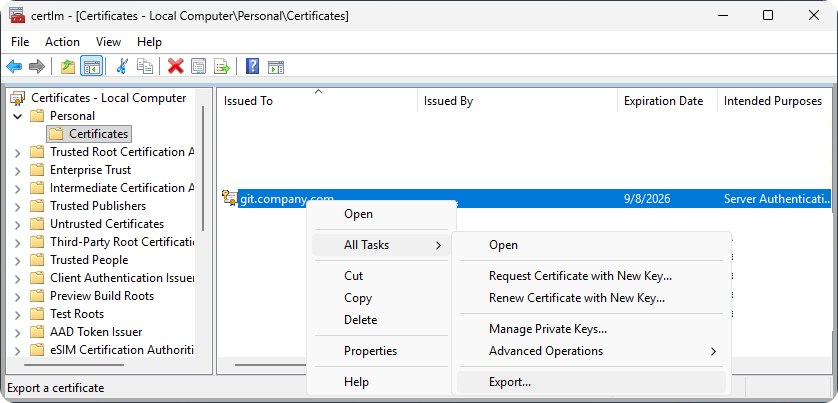
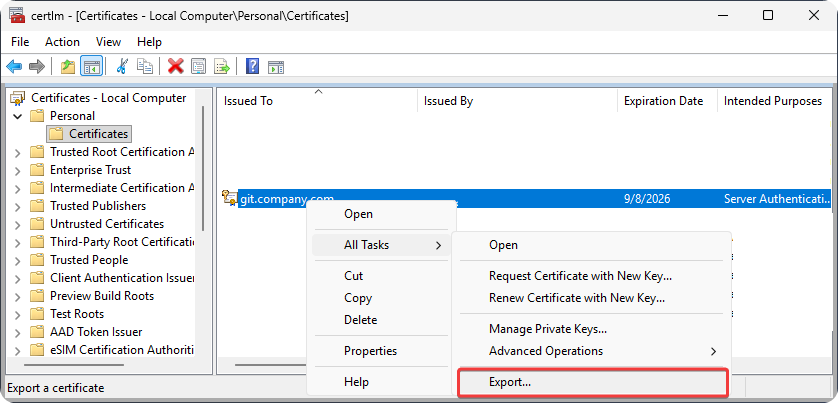
Quartz sync: Apr 20, 2026, 9:52 AM

Changed region(s): [[0.5274, 0.8933, 0.8687, 1.0]]

diff --git a/content/Blog/0041 Issuing Internal SSL Certificates from AD CS.md b/content/Blog/0041 Issuing Internal SSL Certificates from AD CS.md
@@ -1,14 +1,20 @@
 ---
 title: "Issuing Internal SSL Certificates from AD CS"
-created: 2026-03-29
-modified: 2026-03-29
+created: 2026-04-20
+modified: 2026-04-20
 tags: ["SSL", "ADCS"]
-draft: true
+draft: false
 ---
 
 ## Introduction
 
-A colleague of mine requested a internal certificate from our Active Direcotry Certificate Services (AD CS) for an internal domain. I issued multiple of certificates for the internal domain but all of them threw the following error message `ERR_CERT_COMMON_NAME_INVALID` but after some research I found the solution to the issue.
+In our organization we have many internal web applications which uses the certificate provided by our Active Directory Certificate Services (AD CS). The information about internal certificates where lost because the colleague who was responsible for these requests resigned from the organization.
+
+None of my colleagues took the ticket for a long time therefore I decided to take it and resolve it. I issued multiple of certificates but received the following error message `ERR_CERT_COMMON_NAME_INVALID` but after many failures I found out the solution and decided to share it here. 
+
+## What was the issue?
+
+The reason the internal certificate was throwing the error message `ERR_CERT_COMMON_NAME_INVALID` is because the **Common Name** and **DNS** had to contain the domain name. And I had only applied the domain name to DNS and not Common Name... 
 
 ## Issuing SSL Certificate
 
@@ -64,4 +70,4 @@ A colleague of mine requested a internal certificate from our Active Direcotry C
 
 ## Conclusion
 
-While generating a certificate the most important part is to ensure the **Common Name** and **DNS** is the internal domain name otherwise the `ERR_CERT_COMMON_NAME_INVALID` error message will be thrown when it's used on the internal web application. Hopefully, this article has assisted you with generating your own SSL certificate.
+While generating a certificate the most important part is to ensure the **Common Name** and **DNS** is the internal domain name otherwise the `ERR_CERT_COMMON_NAME_INVALID` error message will be thrown. Hopefully, someone with similar issue will solve their issues with this article.
